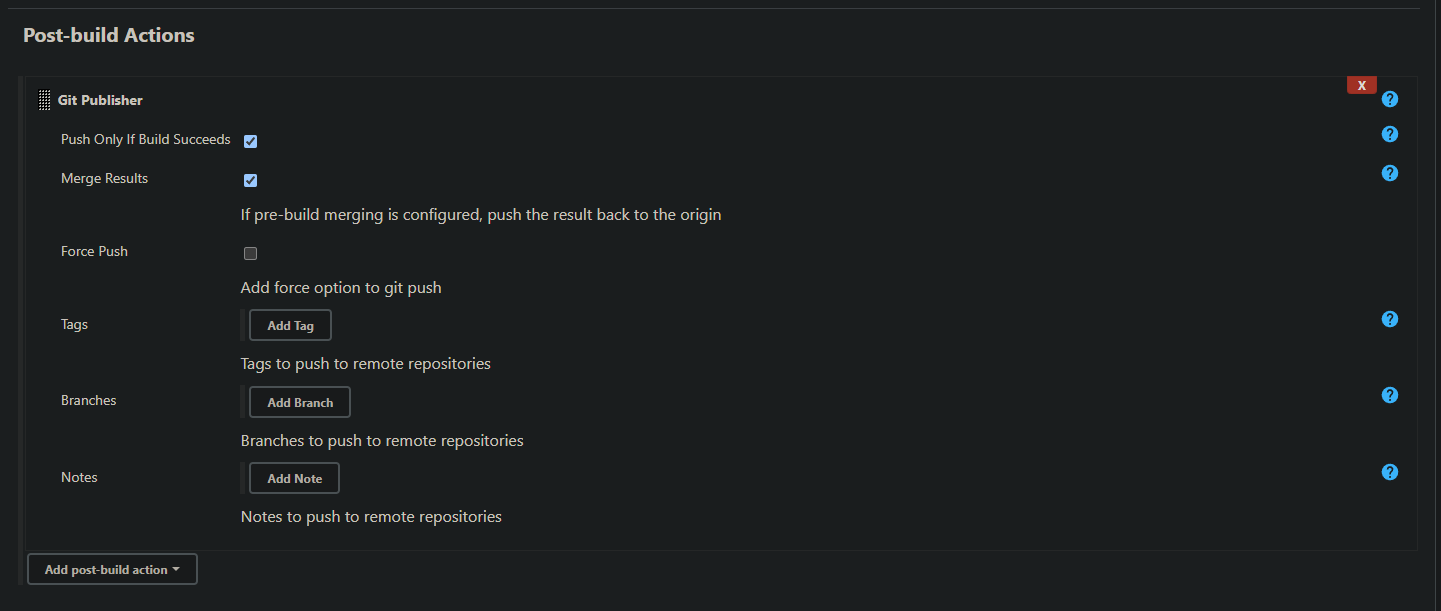
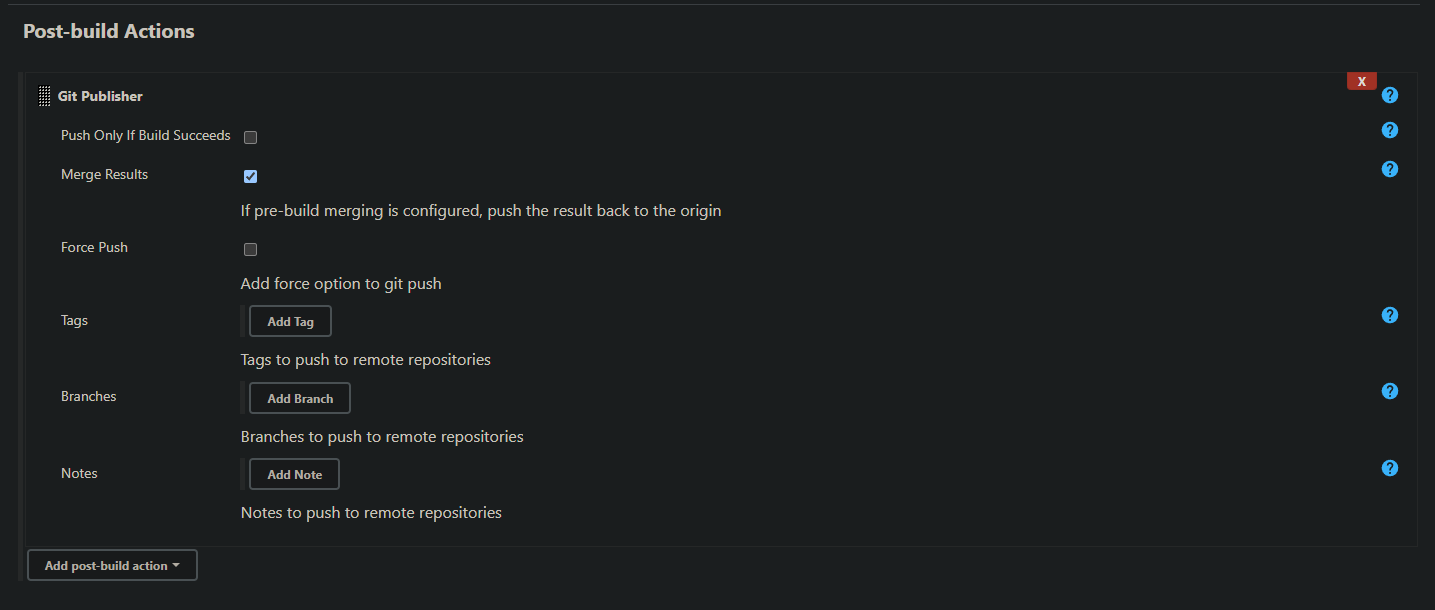
Update README and provision.sh

diff --git a/README.md b/README.md
@@ -84,20 +84,26 @@ We can chain together different jobs to automate a whole range of actions in a p
 
 ![Jenkins Automation Server](./images/test_merge/test_merge_0.png)
 
-## Test code with jenkins before merging to main
-Break down into specific jobs
+Starting with the happy path, where all three jobs in our pipeline are successfully run:
+
+Commit triggers job 1. if the code passes the automated tests job 2 is run
+Job 2 merges the code from dev branch to the main branch on our github repository, before triggering job 3
+Job 3 creates an EC2 instance and the deploys the application to said instance.
+
+If either our tests or deployment fails Jenkins can send us an automatic notification in the form of an email.
+
+## Jenkins pipeline to test code after pushing to dev, then merge to main
 
 ### Job 1 - listen for push to dev branch, test and then start job 2
 
-1) Test the code on the ec2 instance first 
-2) Create a dev branch using git
+To start with we need a dev branch using git
 ![Creating a dev branch with git](./images/test_merge/test_merge_1.png)
 
-3) Create the first jenkins job. It should:
+1) Create the first jenkins job. It should:
    1)  Listen to the webhook setup on the github repo (See 'Guide to creating a job on Jenkins master server' above)
    2)  Respond to pushes to dev,  
-4) Make a change locally, push it to github
-5) If tests passed trigger job 2 
+2) Make a change locally, push it to github
+3) If tests passed trigger job 2 
 
 ### Job 2 - Merge dev branch with main
 
@@ -106,14 +112,141 @@ Break down into specific jobs
 3) Set the branch to merge to as `main`.
    ![Merge before build settings](./images/test_merge/test_merge_2.png)
 4) Under Post-build actions select `Git Publisher`
-5) Select `Push Only if Build Succeeds` and `Merge Results`
+5) Select `Merge Results`
     ![Post-build Actions](./images/test_merge/test_merge_3.png)
 
 Then test!
 
+### Job 3 - Deploy app on an EC2 instance
 
-### Job 3 - Transfer code 
+**Setting up the EC2 instance**
+Currently we need a live EC2 instance for our job to connect to over SSH, install our app and launch. So before we can start creating the job we need to create and EC2 instance with:
+  1) Ubuntu 18.04LTS
+  2) SSH public key that corresponds to a private key on the Jenkins server
+  3) Network security groups with inbound connections using SSH and HTTP enabled, as well as ports 22, 80, 3000, 8080 open for inbound traffic
+   ![EC2 Security Rules](./images/ec2_deploy/ec2_deploy_1.png)
 
+**Creating the Jenkins job**
+We can then start to create our jenkins job launch the app on our EC2 instance. Note that as with previous scripts we've built, we'll gradually build up the build shell script in complexity, ensuring each steps works before adding to it
+
+1) Log into Jenkins and create a new freestyle project.
+2) Give it a description and set it to discard old builds. Choose 3 - this allows us to keep recent builds and use the console output to refine subsequent builds
+3) Provide the GitHub project url to build the app from
+   ![Jenkins project general config](./images/ec2_deploy/ec2_deploy_2.png)
+
+4) Under `Office 365 Connector` we chose to check restrict where the project can be run. As we had a whole team of people testing their Jenkins jobs it made sense to spread this our over different nodes.
+5) For Sourece Code Management we put in the GitHub repo SSH details, as well as the SSH credentials required. We want the branch to be `main` as it's the branch we merged to in *job 2*
+   ![Jenkins project source code management config](./images/ec2_deploy/ec2_deploy_3.png) 
+
+6) Under build enviroment check *Provide Node and npm bin/ folder to PATH*
+7) We need to provide the ssh private key for the public key used by our EC2 instance. Check *SSH Agent* and add the key.
+   ![Jenkins project build environment config](./images/ec2_deploy/ec2_deploy_4.png) 
+
+8) Under build we can start building our shell script. Start with just a few steps:
+   1) SSH into the EC2 instance
+   2) update and upgrades packages
+   3) install nginx and then test it's working by going to the instances public IP in the browser
+
+We can do this with the following code:
+```shell
+# ssh into ec2
+ssh -o  "StrictHostKeyChecking=no" ubuntu@3.252.236.184 <<EOF
+# run update and upgrade
+sudo apt-get update -y
+sudo apt-get upgrade -y
+
+# install nginx
+sudo apt-get install nginx -y
+sudo systemctl enable nginx
+
+EOF
+
+```
+There's a couple of parts to this script worth closer inspection:
+- `-o "StrictHostKeyChecking=no"` - let's us pass an option with our SSH command. In this case we are turning StrictHostKeyChecking off, meaning we don't have to provide a fingerprint, removing the need for human input
+- `<<EOF` - We are creating a multiline string, that runs between start end end tags `EOF`, this means we can pass it all with our ssh command
+
+We can now open our app up in a browser and check that nginx is running.
+
+Once we're happy we can ssh into our EC2 instance we can then copy files from our jenkins workspace securely:
+```shell
+# copy new code
+rsync -avz -e "ssh -o StrictHostKeyChecking=no" app ubuntu@3.252.236.184:/home/ubuntu
+rsync -avz -e "ssh -o StrictHostKeyChecking=no" environment ubuntu@3.252.236.184:/home/ubuntu
+```
+`rsync` stands for *remote sync*, it tends to be faster than `scp`. The flags work as follows:
+  - `a`- This flag stands for "archive" mode. It is a shortcut that includes several other flags
+  - `v` - triggers *verbose* mode. rsync with give us much more information
+  - `z` - Enables compression during file transfer
+  - `-e` - Specifies remote shell to use, in our case ssh
+  
+Back in our bash terminal ssh'd into the EC2 instance, after running the updated jenkins job we can see that we now have the app and environment folders!
+
+9) we can then manually install all dependencies in bash to make sure they work. This is crucial as it let's us see what works, as well as what doesn't, before writing our script
+10) Update our bash user data script in jenkins. It should now look something like this:
+```shell
+# bypass key checking step/option
+# ssh into ec2
+ssh -o  "StrictHostKeyChecking=no" ubuntu@34.244.64.147 <<EOF
+# run update and upgrade
+sudo apt-get update -y
+sudo apt-get upgrade -y
+
+# install nginx
+sudo apt-get install nginx -y
+sudo systemctl enable nginx
+
+# visit public ip to ensure nginx is running
+
+EOF
+
+# copy new code
+rsync -avz -e "ssh -o StrictHostKeyChecking=no" app ubuntu@34.244.64.147:/home/ubuntu
+rsync -avz -e "ssh -o StrictHostKeyChecking=no" environment ubuntu@34.244.64.147:/home/ubuntu
+
+ssh -o  "StrictHostKeyChecking=no" ubuntu@34.244.64.147 <<EOF
+# Install node
+curl -fsSL https://deb.nodesource.com/setup_10.x | sudo DEBIAN_FRONTEND=noninteractive -E bash - && sudo DEBIAN_FRONTEND=noninteractive apt-get install -y nodejs
+
+# install npm
+sudo apt install npm -y
+
+# cd into app folder
+cd app
+
+# Install node packages
+npm install
+
+# Install pm2
+sudo npm install pm2 -g
+
+# stop any previously running versions of the app
+pm2 stop app
+
+# launch app
+pm2 start app.js 
+
+
+EOF
+```  
+
+NOTE: I've specified a version of node to use, in this case 10.x, to ensure stability going forwards.
+
+11) Run the jenkins job to make sure it works, before running it again on a fresh EC2 instance.
+12) 
+
+- Node version x12
+- pm2 and npm
+- Nginx with reverse proxy 
+- security group
+- SSH from localhost to confirm it all works
+- Npm install & npm start
+
+### Steps
+1) Launch EC2 Instance
+   1) Add port 8080 under inbound rules
+2) Create Jenkins job - notice how we added discard old builds 
+3) Under build, execute shell we have pseudocoded the steps out. We'll gradually build up the complexity. 
 Send the tested code to the ec2 instance.
 
 Should job 2 be triggered by a push/merge to main, or be triggered directly by job 1 (It's ultimately the same code right)?
@@ -155,7 +288,7 @@ Notice that when we bulid and then look in the console output it will tell us th
 rsync -avz -e "ssh -o StrictHostKeyChecking=no" app ubuntu@ip:/home/ubuntu
 rsync -avz -e "ssh -o StrictHostKeyChecking=no" environment ubuntu@ip:/home/ubuntu
 ssh -o "StrictHostKeyChecking=no" ubuntu@ip <<EOF
-	sudo bash ./environment/aap/provision.sh
+	sudo bash ./environment/app/provision.sh
     sudo bash ./environment/db/provision.sh
     cd app
     pm2 kill
